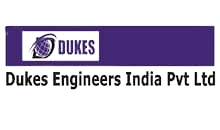
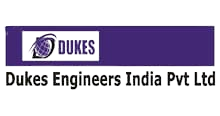
changed transparent sponsor images

Changed region(s): [[0.0, 0.181, 0.9818, 0.7759]]

diff --git a/pages/sponsors.tsx b/pages/sponsors.tsx
@@ -33,10 +33,10 @@ const SponsorsPage = () => {
             </div>
             <div className="grid grid-cols-1 md:grid-cols-2 lg:grid-cols-3 my-20 place-content-center place-items-center gap-40">
               <img className="z-10 w-full" src="/images/sponsors/celcom.png" />
-              <img className="z-10 w-full" src="/images/sponsors/cgvak.png" />
+              <img className="z-10 w-full rounded-3xl" src="/images/sponsors/cgvak.png" />
 
               <img className="z-10 w-full" src="/images/sponsors/do.png" />
-              <img className="z-10 w-full" src="/images/sponsors/dukes.png" />
+              <img className="z-10 w-full rounded-3xl" src="/images/sponsors/dukes.png" />
 
               <img className="z-10 w-full" src="/images/sponsors/ieee.png" />
               <img className="z-10 w-full" src="/images/sponsors/in2.png" />
@@ -46,7 +46,7 @@ const SponsorsPage = () => {
               <img className="z-10 w-full" src="/images/sponsors/leo.png" />
 
               <img className="z-10 w-full" src="/images/sponsors/magilhub.png" />
-              <img className="z-10 w-full" src="/images/sponsors/manya.png" />
+              <img className="z-10 w-full rounded-3xl" src="/images/sponsors/manya.png" />
 
               <img className="z-10 w-full" src="/images/sponsors/nat.png" />
 
@@ -59,7 +59,7 @@ const SponsorsPage = () => {
               <img className="z-10 w-full" src="/images/sponsors/sac.png" />
               <img className="z-10 w-full" src="/images/sponsors/sakthi.png" />
               <img className="z-10 w-full" src="/images/sponsors/servo.png" />
-              <img className="z-10 w-full" src="/images/sponsors/suba.png" />
+              <img className="z-10 w-full rounded-3xl" src="/images/sponsors/suba.png" />
 
               <img className="z-10 w-full" src="/images/sponsors/toyota.png" />
               <img className="z-10 w-full" src="/images/sponsors/treat.png" />
